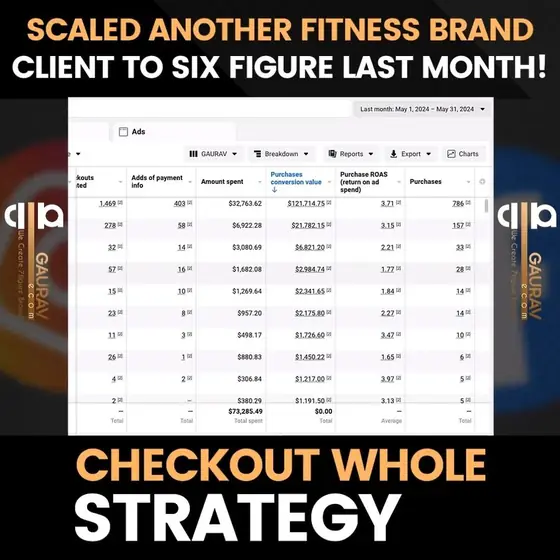
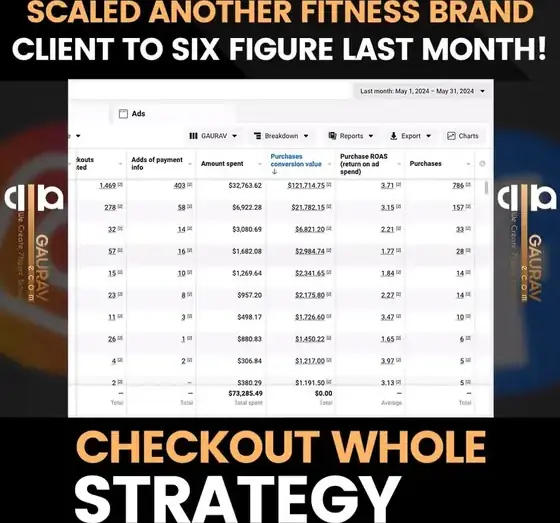
feat: case studies show 'Backed by 250+ case studies', 8 cards and a 'View all' page; no niche tabs; black bars trimmed from proof images; muted video previews
Claude-Session: https://claude.ai/code/session_01FRrhaPnrz1yL7RN3r7zfBP

diff --git a/wp-content/mu-plugins/mdm-sections/mdm-sections.css b/wp-content/mu-plugins/mdm-sections/mdm-sections.css
@@ -1498,3 +1498,18 @@ html .mdm-cs__play { width: 50px; height: 50px; margin: -25px 0 0 -25px; }
 	html .mdm-cases .mdm-cs__zoom { display: none; }
 	html .mdm-cs__play { width: 40px; height: 40px; margin: -20px 0 0 -20px; box-shadow: 0 0 0 5px rgba(237,28,36,.25); }
 }
+
+
+/* ==========================================================================
+   CASE STUDIES - clean layout: badge, 8 cards, "View all" page, video previews
+   ========================================================================== */
+html .mdm-cases--clean .mdm-impact__badge { margin: 18px auto 0; }
+html .mdm-cases--clean .mdm-cases__head .mdm-lead { margin-top: 16px !important; }
+html .mdm-cases--clean .mdm-cases__showall { display: none !important; }
+html .mdm-cases .mdm-cs__shot img { object-position: center center !important; }
+html .mdm-cs__preview { position: absolute; inset: 0; width: 100%; height: 100%; object-fit: cover; opacity: 0; transition: opacity .5s ease; pointer-events: none; }
+html .mdm-cs__preview.is-playing { opacity: 1; }
+html .mdm-cs__shot:has(.mdm-cs__preview.is-playing) .mdm-cs__play { width: 38px; height: 38px; margin: 0; left: auto; top: auto; right: 12px; bottom: 12px; box-shadow: none; }
+html .mdm-cs__shot:has(.mdm-cs__preview.is-playing) .mdm-cs__play svg { width: 18px; height: 18px; }
+html .mdm-cases__cta { text-align: center; margin-top: clamp(26px, 3vw, 40px); }
+html .mdm-cases__cta .mdm-btn { margin-top: 0; }

diff --git a/wp-content/mu-plugins/mdm-sections/mdm-sections.js b/wp-content/mu-plugins/mdm-sections/mdm-sections.js
@@ -441,7 +441,7 @@
 
 		// Paging: 9 cards per tab, "Show more" adds 12 at a time.
 		var showAll = root.querySelector('[data-mdm-cases-more]');
-		var STEP = 12, FIRST = 8;
+		var STEP = 12, FIRST = parseInt(root.getAttribute('data-first') || '8', 10) || 100000;
 		var page = function (panel, n) {
 			var cards = $$('.mdm-cs', panel);
 			panel._shown = Math.min(cards.length, n);
@@ -463,6 +463,23 @@
 		}
 		btns.forEach(function (b) { b.addEventListener('click', updateShort); });
 		updateShort();
+
+		// Muted video previews play while their card is on screen.
+		var previews = $$('.mdm-cs__preview', root);
+		if (previews.length && 'IntersectionObserver' in window && !(window.matchMedia && matchMedia('(prefers-reduced-motion: reduce)').matches)) {
+			var pio = new IntersectionObserver(function (entries) {
+				entries.forEach(function (en) {
+					var v = en.target;
+					if (en.isIntersecting) {
+						if (!v.getAttribute('src')) { v.src = v.getAttribute('data-src'); }
+						v.muted = true;
+						var pr = v.play(); if (pr && pr.catch) { pr.catch(function () {}); }
+						v.addEventListener('playing', function () { v.classList.add('is-playing'); }, { once: true });
+					} else if (!v.paused) { v.pause(); }
+				});
+			}, { threshold: 0.35 });
+			previews.forEach(function (v) { pio.observe(v); });
+		}
 
 		var firstPanel = root.querySelector('.mdm-cases__grid.is-on');
 		if (firstPanel) {

diff --git a/wp-content/mu-plugins/mdm-sections/inc/case-studies.php b/wp-content/mu-plugins/mdm-sections/inc/case-studies.php
@@ -43,9 +43,13 @@ function mdm_default_case_studies() {
 function mdm_shortcode_case_studies( $atts ) {
 	$atts = shortcode_atts(
 		array(
-			'eyebrow'  => '123 verified case studies',
+			'eyebrow'  => 'Case studies',
 			'title'    => 'Proof, not promises.',
-			'subtitle' => 'Real brands, real dashboards and screen recordings. Pick your niche and see what our system does for businesses like yours.',
+			'badge'    => 'Backed by 250+ case studies',
+			'subtitle' => 'Real brands, real dashboards and screen recordings. Tap any card to see the proof.',
+			'limit'    => '8',               // 0 = show every case study (the /case-studies/ page)
+			'all_url'  => home_url( '/case-studies/' ),
+			'all_text' => 'View all case studies',
 			'cta_text' => 'Get results like these',
 			'cta_url'  => MDM_Sections::cta_url(),
 		),
@@ -54,52 +58,64 @@ function mdm_shortcode_case_studies( $atts ) {
 	);
 
 	$groups = apply_filters( 'mdm_case_studies', mdm_default_case_studies() );
-	$uid    = 'mdm-cs-' . wp_rand( 1000, 9999 );
+	$items  = isset( $groups['all'] ) ? $groups['all']['items'] : array();
+	if ( ! $items ) {
+		foreach ( $groups as $g ) {
+			$items = array_merge( $items, $g['items'] );
+		}
+	}
+	$total = count( $items );
+	$limit = (int) $atts['limit'];
+	$shown = $limit > 0 ? array_slice( $items, 0, $limit ) : $items;
+	$is_all = $limit <= 0;
 	$colors = array( 'var(--mdm-red)', 'var(--mdm-ink)' );
 
 	ob_start();
 	echo MDM_Sections::assets(); // phpcs:ignore WordPress.Security.EscapeOutput
 	?>
-	<section class="mdm-cases" data-mdm-cases data-mdm-reveal id="case-studies">
+	<section class="mdm-cases mdm-cases--clean<?php echo $is_all ? ' mdm-cases--all' : ''; ?>" data-mdm-cases data-mdm-reveal id="case-studies" data-first="<?php echo $is_all ? 0 : (int) $limit; ?>">
 		<div class="mdm-cases__head">
 			<span class="mdm-eyebrow mdm-eyebrow--plain mdm-rise" style="--d:0s"><?php echo esc_html( $atts['eyebrow'] ); ?></span>
 			<h2 class="mdm-display mdm-cases__title"><?php echo MDM_Sections::split_words( $atts['title'] ); // phpcs:ignore ?></h2>
-			<p class="mdm-lead mdm-rise" style="--d:.35s"><?php echo esc_html( $atts['subtitle'] ); ?></p>
-
-			<div class="mdm-switch mdm-rise" style="--d:.45s" role="tablist">
-				<span class="mdm-switch__thumb" aria-hidden="true"></span>
-				<?php $first = true; foreach ( $groups as $key => $group ) : ?>
-					<button type="button" role="tab" class="mdm-switch__btn<?php echo $first ? ' is-on' : ''; ?>" aria-selected="<?php echo $first ? 'true' : 'false'; ?>" aria-controls="<?php echo esc_attr( $uid . '-' . $key ); ?>" data-tab="<?php echo esc_attr( $key ); ?>">
-						<?php echo esc_html( $group['label'] ); ?> <small><?php echo count( $group['items'] ); ?></small>
-					</button>
-				<?php $first = false; endforeach; ?>
-			</div>
+			<?php if ( $atts['badge'] ) : ?>
+				<span class="mdm-impact__badge mdm-rise" style="--d:.3s"><i></i><?php echo esc_html( $atts['badge'] ); ?></span>
+			<?php endif; ?>
+			<?php if ( $atts['subtitle'] ) : ?>
+				<p class="mdm-lead mdm-rise" style="--d:.4s"><?php echo esc_html( $atts['subtitle'] ); ?></p>
+			<?php endif; ?>
 		</div>
 
-		<?php $first = true; foreach ( $groups as $key => $group ) : ?>
-			<div class="mdm-cases__grid<?php echo $first ? ' is-on' : ''; ?>" role="tabpanel" id="<?php echo esc_attr( $uid . '-' . $key ); ?>" data-panel="<?php echo esc_attr( $key ); ?>"<?php echo $first ? '' : ' hidden'; ?>>
-				<?php foreach ( $group['items'] as $i => $item ) : ?>
-					<article class="mdm-cs" style="--c:<?php echo esc_attr( $colors[ $i % count( $colors ) ] ); ?>;--i:<?php echo (int) ( $i % 8 ); ?>">
-						<button type="button" class="mdm-cs__shot" data-full="<?php echo esc_url( $item['image'] ); ?>"<?php echo ! empty( $item['video'] ) ? ' data-video="' . esc_url( $item['video'] ) . '"' : ''; ?> aria-label="<?php echo esc_attr( ( empty( $item['video'] ) ? 'View proof: ' : 'Play proof video: ' ) . $item['headline'] ); ?>">
-							<?php if ( ! empty( $item['video'] ) ) : ?><span class="mdm-cs__play" aria-hidden="true"><svg viewBox="0 0 24 24"><path d="M8 5v14l11-7z" fill="currentColor"/></svg></span><?php endif; ?>
-							<img src="<?php echo esc_url( $item['image'] ); ?>" alt="<?php echo esc_attr( $item['niche'] . ' results: ' . $item['headline'] ); ?>" loading="lazy" decoding="async">
-							<span class="mdm-cs__zoom"><?php echo empty( $item['video'] ) ? 'View proof ↗' : 'Watch proof ▶'; ?></span>
-						</button>
-						<div class="mdm-cs__body">
-							<span class="mdm-cs__niche"><i></i><?php echo esc_html( $item['niche'] ); ?></span>
-							<h3 class="mdm-cs__headline"><?php echo esc_html( $item['headline'] ); ?></h3>
-							<div class="mdm-cs__metrics">
-								<?php foreach ( $item['metrics'] as $m ) : ?><span><?php echo esc_html( $m ); ?></span><?php endforeach; ?>
-							</div>
+		<div class="mdm-cases__grid is-on" data-panel="all">
+			<?php foreach ( $shown as $i => $item ) :
+				$has_video = ! empty( $item['video'] );
+				?>
+				<article class="mdm-cs" style="--c:<?php echo esc_attr( $colors[ $i % count( $colors ) ] ); ?>;--i:<?php echo (int) ( $i % 8 ); ?>">
+					<button type="button" class="mdm-cs__shot" data-full="<?php echo esc_url( $item['image'] ); ?>"<?php echo $has_video ? ' data-video="' . esc_url( $item['video'] ) . '"' : ''; ?> aria-label="<?php echo esc_attr( ( $has_video ? 'Play proof video: ' : 'View proof: ' ) . $item['headline'] ); ?>">
+						<img class="skip-lazy no-lazyload" data-no-lazy="1" src="<?php echo esc_url( $item['image'] ); ?>" alt="<?php echo esc_attr( $item['niche'] . ' results: ' . $item['headline'] ); ?>" loading="lazy" decoding="async">
+						<?php if ( $has_video ) : ?>
+							<video class="mdm-cs__preview skip-lazy" data-src="<?php echo esc_url( $item['video'] ); ?>" muted loop playsinline preload="none" aria-hidden="true"></video>
+							<span class="mdm-cs__play" aria-hidden="true"><svg viewBox="0 0 24 24"><path d="M8 5v14l11-7z" fill="currentColor"/></svg></span>
+						<?php endif; ?>
+						<span class="mdm-cs__zoom"><?php echo $has_video ? 'Watch proof ▶' : 'View proof ↗'; ?></span>
+					</button>
+					<div class="mdm-cs__body">
+						<span class="mdm-cs__niche"><i></i><?php echo esc_html( $item['niche'] ); ?></span>
+						<h3 class="mdm-cs__headline"><?php echo esc_html( $item['headline'] ); ?></h3>
+						<div class="mdm-cs__metrics">
+							<?php foreach ( $item['metrics'] as $m ) : ?><span><?php echo esc_html( $m ); ?></span><?php endforeach; ?>
 						</div>
-					</article>
-				<?php endforeach; ?>
-			</div>
-		<?php $first = false; endforeach; ?>
+					</div>
+				</article>
+			<?php endforeach; ?>
+		</div>
 
-		<div class="mdm-cases__showall"><button type="button" class="mdm-btn mdm-btn--ghost" data-mdm-cases-more><span class="mdm-btn__icon"><?php echo MDM_Sections::arrow_icon(); // phpcs:ignore ?></span><span>Show more case studies</span></button></div>
-
-		<div class="mdm-cases__cta mdm-rise"><?php echo MDM_Sections::button( $atts['cta_text'], $atts['cta_url'] ); // phpcs:ignore ?></div>
+		<div class="mdm-cases__cta mdm-rise">
+			<?php if ( ! $is_all && $total > count( $shown ) && $atts['all_url'] ) : ?>
+				<?php echo MDM_Sections::button( $atts['all_text'] . ' (' . $total . ')', $atts['all_url'], 'mdm-cases__all' ); // phpcs:ignore ?>
+			<?php else : ?>
+				<?php echo MDM_Sections::button( $atts['cta_text'], $atts['cta_url'] ); // phpcs:ignore ?>
+			<?php endif; ?>
+		</div>
 
 		<div class="mdm-lightbox" hidden>
 			<button type="button" class="mdm-lightbox__close" aria-label="Close">×</button>
